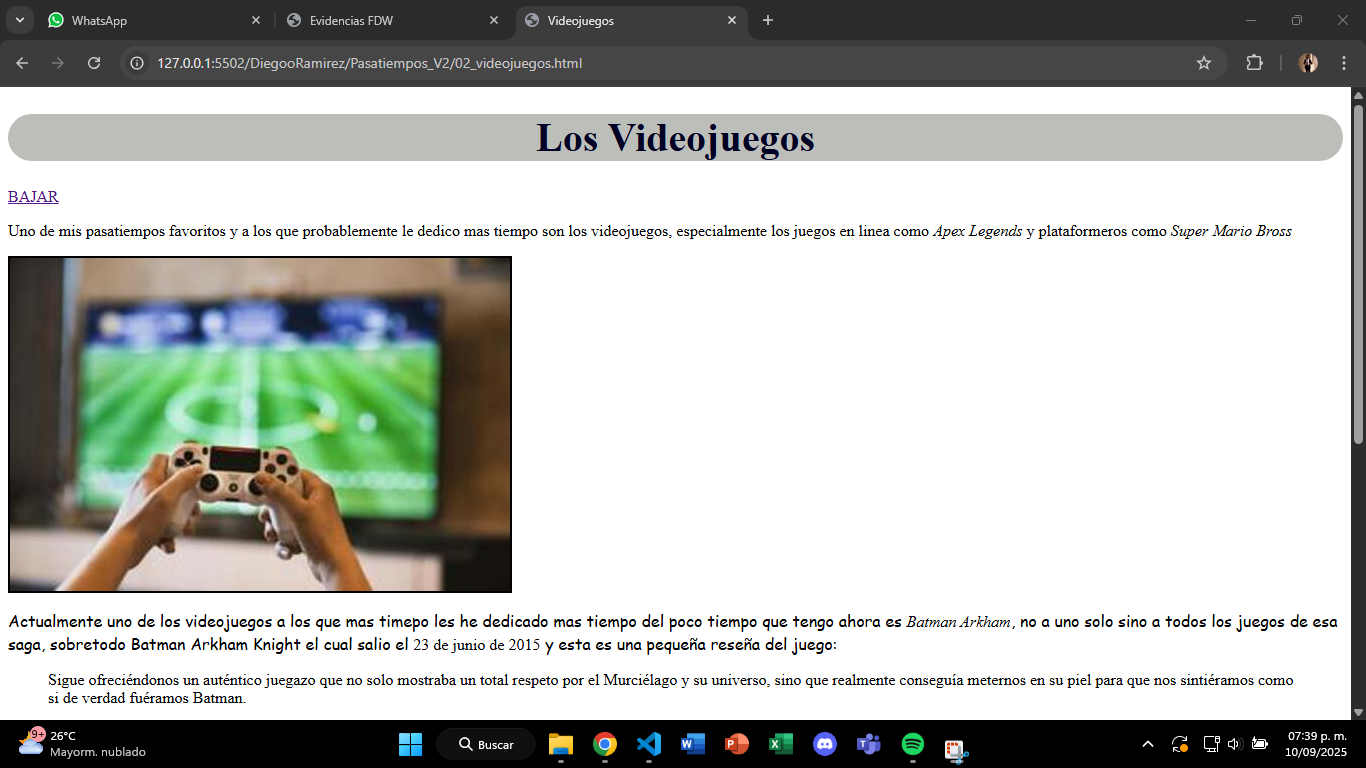
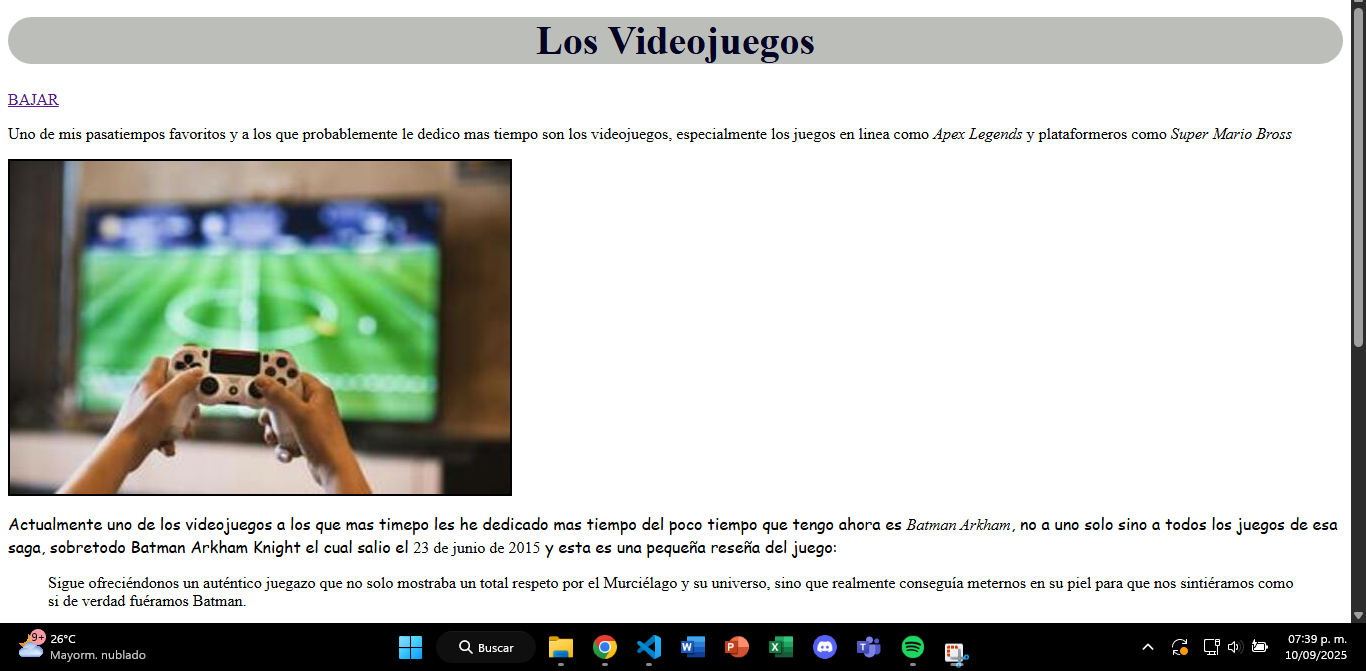
Se agregaron mas imagenes de los selectores

diff --git a/DiegooRamirez/Practica5/selectores.html b/DiegooRamirez/Practica5/selectores.html
@@ -52,32 +52,49 @@ p{
     <h2>Codigo</h2><br>
     <img src="capturas/codigo selector de id.png" alt=""><br>
     <h2>Resultados</h2><br>
-    <img src="capturas/resultado selector de id.png" alt=""><br>
-    <p>Aqui lo que hice fue poner un
+    <img src="capturas/resultado selector id.png" alt=""><br>
+    <p>Aqui lo que hice fue poner un fondo negro y lestras amarrillas por medio del id star wars para que tenga un estilo como las peliculas</p>
 <hr>
     <h1>Selector por clase</h1>
     <h2>Codigo</h2><br>
+    <img src="capturas/codigo selector de clase.png" alt=""><br>
     <h2>Resultados</h2><br>
+    <img src="capturas/resultado selector de clase.png" alt=""><br>
+    <p>Lo que se hizo fue poner marco negro a todas las imagenes con la clase imagen</p>
 <hr>
     <h1>Selector de atributo</h1>
     <h2>Codigo</h2><br>
+    <img src="capturas/codigo selector de atributo.png" alt=""><br>
     <h2>Resultados</h2><br>
+    <img src="capturas/resultado selector de atributo.png" alt=""><br>
+    <p>Se le dio selecciono el atributo lang para realizar los cambios de color de letra y fondo</p>
 <hr>
     <h1>Selector de lista</h1>
     <h2>Codigo</h2><br>
+    <img src="capturas/codigo selector de lista.png" alt=""><br>
     <h2>Resultados</h2><br>
+    <img src="capturas/resultado selector de lista.png" alt=""><br>
+    <p>Se utilizo este selector para darle formato a una tabla</p>
 <hr>
     <h1>Selector de descendientes</h1>
     <h2>Codigo</h2><br>
+    <img src="capturas/codigo selector de desendiente.png" alt=""><br>
     <h2>Resultados</h2><br>
+    <img src="capturas/resultado selector de desendinte.png" alt=""><br>
+    <p>Se le cambio la fuente al footer y se alineo a la derecha</p>
 <hr>
     <h1>Selector hijos directos</h1>
     <h2>Codigo</h2><br>
+    <img src="capturas/codigo selector hijo directo.png" alt=""><br>
     <h2>Resultados</h2><br>
+    <img src="capturas/resultado selector de hijo directo.png" alt=""><br>
+    <p>Se le dio color de fondo a la lista de mis pasatiempos</p>
 <hr>
     <h1>Selector hermano adyacente</h1>
     <h2>Codigo</h2><br>
+    <img src="capturas/codigo selector hermano adyacente.png" alt=""><br>
     <h2>Resultados</h2><br>
+    <img src="capturas/resultado selector hermano adyacente.png" alt=""><br>
 <hr>
     <h1>Selector hermano general</h1>
     <h2>Codigo</h2><br>
